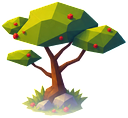
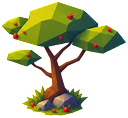
feat(render): per-instance ground-sampled tint at prop bases
Replaces the uniform 28% bottom-fade with a dynamic per-instance
tint. Each tree / decorative rock samples the arena background at
its ground point and multiplies that color into a gradient at
the sprite's bottom band. A tree on green grass has a greener
tuft; the same tree on a dirt path shades brownish. The base of
the sprite reads as continuous with the ground instead of a
sticker.

Sprites:
  - tree_{1..4}.png and rock_{1..4}.png: uniform-fade reversed
    (mathematical inverse of the earlier alpha ramp — precision-
    lossless for originally-opaque pixels). Previous versions
    snapshotted to public/props/backup/*_v3_uniformfade.png so a
    revert is a copy, not a regenerate.

Renderer additions:
  - bgSample: rasterized copy of the arena background as a
    Uint8ClampedArray for cheap per-pixel lookups. Built once
    per arena URL on first sampleGroundColor() call.
  - sampleGroundColor(worldPos, arena): world → image UV, then
    averages an 11×11 window of RGB for stability against noise.
    Returns null while the background is still loading (caller
    falls back to the untinted sprite).
  - getGroundTintedSprite(shape, variantIdx, ground): returns a
    cached offscreen canvas of the sprite with a bottom-band
    multiply gradient (0 at 72% height → 1.0 at bottom) using
    the ground color. Then re-masked to the sprite's original
    alpha so the tint doesn't leak into the transparent margin.
    Ground color quantized to 16 steps/channel so the cache
[…]

Changed region(s): [[0.1562, 0.7373, 0.6875, 0.9915]]

diff --git a/src/render/renderer.ts b/src/render/renderer.ts
@@ -103,6 +103,27 @@ export class Renderer {
   // Built once on first request; drawn cheap every frame after.
   private tintedSprites: Map<string, HTMLCanvasElement> = new Map();
 
+  // Rasterized copy of the arena background image, kept as a
+  // Uint8ClampedArray for cheap per-pixel sampling. Populated on
+  // first sampleGroundColor call after the image loads. Keyed by
+  // the resolved image URL so switching arenas (e.g. cave after
+  // a forest round) drops the stale cache automatically.
+  private bgSample: {
+    url: string;
+    data: Uint8ClampedArray;
+    imgW: number;
+    imgH: number;
+  } | null = null;
+
+  // Per-shape × per-variant × per-quantized-ground-color tinted
+  // sprite cache. Multiplies the ground color into the bottom
+  // band of the sprite so a tree/rock's grass tuft blends with
+  // whatever ground it's actually sitting on (green grass →
+  // greener base; dirt path → browner base). Ground color is
+  // quantized to 16 steps per channel (bit-mask 0xF0) so we
+  // don't blow up the cache with near-identical entries.
+  private groundTintedSprites: Map<string, HTMLCanvasElement> = new Map();
+
   constructor(
     public ctx: CanvasRenderingContext2D,
     public canvas: HTMLCanvasElement,
@@ -574,6 +595,106 @@ export class Renderer {
     return off;
   }
 
+  // Sample the arena background image at a world position and
+  // return the average RGB over a small window centered there.
+  // Returns null while the background image hasn't loaded yet
+  // (caller falls back to no tint). Rasterizes the image once
+  // per arena into a byte array for cheap subsequent lookups.
+  private sampleGroundColor(
+    worldPos: { x: number; y: number },
+    arena: World["arena"],
+  ): { r: number; g: number; b: number } | null {
+    const path = arena.backgroundImage;
+    if (!path) return null;
+    const img = this.getBackgroundImage(path);
+    if (!img) return null;
+    const base = (import.meta as unknown as { env?: { BASE_URL?: string } })
+      .env?.BASE_URL ?? "/";
+    const url = base + path.replace(/^\/+/, "");
+    // Rasterize on first request (or if the URL changed).
+    if (!this.bgSample || this.bgSample.url !== url) {
+      const off = document.createElement("canvas");
+      off.width = img.naturalWidth;
+      off.height = img.naturalHeight;
+      const octx = off.getContext("2d");
+      if (!octx) return null;
+      octx.drawImage(img, 0, 0);
+      try {
+        const data = octx.getImageData(0, 0, off.width, off.height).data;
+        this.bgSample = { url, data, imgW: off.width, imgH: off.height };
+      } catch { return null; }
+    }
+    const { data, imgW, imgH } = this.bgSample;
+    // World → image UV. Arena is 1:1 mapped to the image rect.
+    const arenaW = arena.bounds.maxX - arena.bounds.minX;
+    const arenaH = arena.bounds.maxY - arena.bounds.minY;
+    const u = (worldPos.x - arena.bounds.minX) / arenaW;
+    const v = (worldPos.y - arena.bounds.minY) / arenaH;
+    const cx = Math.floor(u * imgW);
+    const cy = Math.floor(v * imgH);
+    // Average over an 11×11 window for stability against per-pixel
+    // noise in the ground art.
+    const R = 5;
+    let sr = 0, sg = 0, sb = 0, n = 0;
+    for (let dy = -R; dy <= R; dy++) {
+      const py = cy + dy;
+      if (py < 0 || py >= imgH) continue;
+      for (let dx = -R; dx <= R; dx++) {
+        const px = cx + dx;
+        if (px < 0 || px >= imgW) continue;
+        const idx = (py * imgW + px) * 4;
+        sr += data[idx]!;
+        sg += data[idx + 1]!;
+        sb += data[idx + 2]!;
+        n++;
+      }
+    }
+    if (n === 0) return null;
+    return { r: sr / n, g: sg / n, b: sb / n };
+  }
+
+  // Return a cached ground-tinted copy of a prop sprite variant.
+  // Applied as a multiply blend in a bottom band with a linear
+  // gradient (0 at 72% height → 1.0 at bottom edge) so the grass
+  // tuft at the base picks up the ground color while the canopy
+  // stays untouched. Ground color quantized to 16 steps per
+  // channel; keeps the cache small.
+  private getGroundTintedSprite(
+    shape: import("../core/entity").PropShape,
+    variantIdx: number,
+    ground: { r: number; g: number; b: number },
+  ): HTMLCanvasElement | null {
+    const gr = Math.round(ground.r) & 0xF0;
+    const gg = Math.round(ground.g) & 0xF0;
+    const gb = Math.round(ground.b) & 0xF0;
+    const key = `${shape}:${variantIdx}:${gr},${gg},${gb}`;
+    const cached = this.groundTintedSprites.get(key);
+    if (cached) return cached;
+    const sprite = getPropSprite(shape, 0, variantIdx);
+    if (!sprite) return null;
+    const off = document.createElement("canvas");
+    off.width = sprite.naturalWidth;
+    off.height = sprite.naturalHeight;
+    const octx = off.getContext("2d");
+    if (!octx) return null;
+    octx.drawImage(sprite, 0, 0);
+    // Bottom-band gradient multiply with the ground color.
+    const bandStart = Math.floor(sprite.naturalHeight * 0.72);
+    const grad = octx.createLinearGradient(0, bandStart, 0, sprite.naturalHeight);
+    grad.addColorStop(0, `rgba(${gr},${gg},${gb},0)`);
+    grad.addColorStop(1, `rgba(${gr},${gg},${gb},1)`);
+    octx.globalCompositeOperation = "multiply";
+    octx.fillStyle = grad;
+    octx.fillRect(0, bandStart, sprite.naturalWidth, sprite.naturalHeight - bandStart);
+    // Multiply erased the transparent-region alpha; re-mask to
+    // the sprite's original alpha so the tint doesn't paint
+    // into the transparent margin.
+    octx.globalCompositeOperation = "destination-in";
+    octx.drawImage(sprite, 0, 0);
+    this.groundTintedSprites.set(key, off);
+    return off;
+  }
+
   private getRoughStonePattern(): CanvasPattern | null {
     if (this.roughStonePattern) return this.roughStonePattern;
     const SIZE = 512;
@@ -805,6 +926,16 @@ export class Renderer {
       if (sprite) {
         const baseScale = getPropSpriteBaseScale("tree", e.id, e.spriteVariant);
         const scale = (e.spriteScale ?? 1) * baseScale;
+        // Prefer a ground-tinted cached copy — the grass tuft at
+        // the base picks up whatever color the arena background
+        // painted underneath this tree. Falls back to the plain
+        // sprite while the background image is still loading.
+        const world = this.activeWorld;
+        const ground = world ? this.sampleGroundColor(e.pos, world.arena) : null;
+        const variantIdx = e.spriteVariant ?? Math.abs(e.id) % 4;
+        const drawSrc = ground
+          ? (this.getGroundTintedSprite("tree", variantIdx, ground) ?? sprite)
+          : sprite;
         const w = sprite.naturalWidth * scale;
         const h = sprite.naturalHeight * scale;
         if (e.spriteFlipX) {
@@ -812,10 +943,10 @@ export class Renderer {
           // Flip in place around the ground-point vertical axis.
           ctx.translate(s.x, 0);
           ctx.scale(-1, 1);
-          ctx.drawImage(sprite, -w / 2, s.y - h, w, h);
+          ctx.drawImage(drawSrc, -w / 2, s.y - h, w, h);
           ctx.restore();
         } else {
-          ctx.drawImage(sprite, s.x - w / 2, s.y - h, w, h);
+          ctx.drawImage(drawSrc, s.x - w / 2, s.y - h, w, h);
         }
       } else {
         // Procedural fallback — flat-shaded cone.
@@ -893,9 +1024,15 @@ export class Renderer {
         if (sprite) {
           const baseScale = getPropSpriteBaseScale("rock", e.id, e.spriteVariant);
           const scale = (e.spriteScale ?? 1) * baseScale;
+          const world = this.activeWorld;
+          const ground = world ? this.sampleGroundColor(e.pos, world.arena) : null;
+          const variantIdx = e.spriteVariant ?? Math.abs(e.id) % 4;
+          const drawSrc = ground
+            ? (this.getGroundTintedSprite("rock", variantIdx, ground) ?? sprite)
+            : sprite;
           const w = sprite.naturalWidth * scale;
           const h = sprite.naturalHeight * scale;
-          ctx.drawImage(sprite, s.x - w / 2, s.y - h, w, h);
+          ctx.drawImage(drawSrc, s.x - w / 2, s.y - h, w, h);
         } else {
           ctx.fillStyle = "#8a8a92";
           ctx.beginPath();
